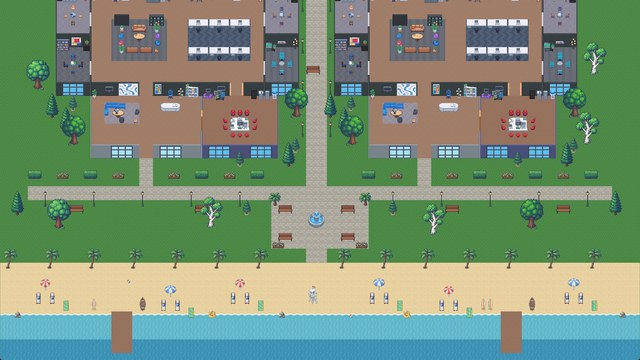
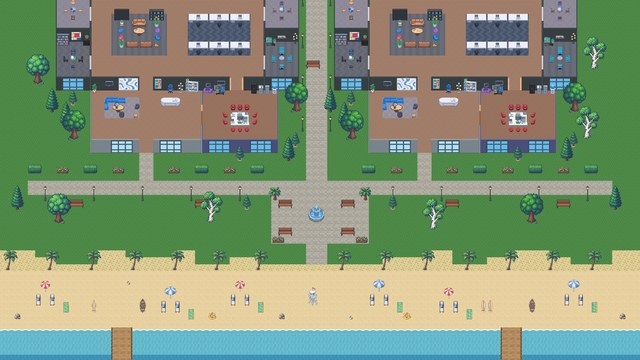
Playa de verdad: dunas irregulares, mar animado que continúa fuera del mapa, orilla con olas y muelles de tablones

diff --git a/src/sprites/floors.tsx b/src/sprites/floors.tsx
@@ -102,31 +102,72 @@ function sand(): PixelSprite {
   for (let y = 0; y < 32; y++) { let row = ''; for (let x = 0; x < 32; x++) { const n = noise(x, y, 3); row += n > .94 ? 'd' : n > .88 ? 'l' : n < .04 ? 'p' : 'b'; } rows.push(row); }
   return { w: 32, h: 32, palette: { b: '#e9d3a2', d: '#cfb37f', l: '#f6e6bf', p: '#d9a98a' }, rows };
 }
-function water(base: string, ripple: string, light: string): PixelSprite {
+/** Water, one frame of four: the ripples drift to the right and bob a pixel, so the sea moves. */
+function water(base: string, ripple: string, light: string, frame = 0): PixelSprite {
   const rows: string[] = [];
   for (let y = 0; y < 32; y++) {
     let row = '';
     for (let x = 0; x < 32; x++) {
-      const wave = (x + Math.round(Math.sin((y / 32) * Math.PI * 2) * 3) + 32) % 16;
-      const band = y % 8 === 3 && wave < 5;
-      row += band ? 'r' : y % 8 === 4 && wave >= 1 && wave < 3 ? 'l' : noise(x, y, 7) > .97 ? 'l' : 'b';
+      const bob = frame % 2;
+      const wave = (x - frame * 4 + Math.round(Math.sin(((y + frame * 2) / 32) * Math.PI * 2) * 3) + 64) % 16;
+      const band = (y + bob) % 8 === 3 && wave < 5;
+      const glint = (y + bob) % 8 === 4 && wave >= 1 && wave < 3;
+      row += band ? 'r' : glint ? 'l' : noise((x - frame * 4 + 64) % 32, y, 7) > .975 ? 'l' : 'b';
     }
     rows.push(row);
   }
   return { w: 32, h: 32, palette: { b: base, r: ripple, l: light }, rows };
 }
-/** The shore: sand above, a frothy wave line, shallow water below. */
-function shore(): PixelSprite {
+/** The shore, one frame of four: the foam line washes up the sand and back. */
+function shore(frame = 0): PixelSprite {
+  const reach = [0, 2, 4, 2][frame];
   const rows: string[] = [];
   for (let y = 0; y < 32; y++) {
     let row = '';
     for (let x = 0; x < 32; x++) {
-      const edge = 14 + Math.round(Math.sin((x / 32) * Math.PI * 2) * 2);
-      row += y < edge - 3 ? (noise(x, y, 3) > .92 ? 'd' : 's') : y < edge - 1 ? 'w' : y < edge + 1 ? (x % 5 === 0 ? 'f' : 'w') : y < edge + 3 ? 'f' : (noise(x, y, 9) > .95 ? 'l' : 'b');
+      const edge = 16 - reach + Math.round(Math.sin(((x + frame * 3) / 32) * Math.PI * 2) * 2);
+      row += y < edge - 3 ? (noise(x, y, 3) > .92 ? 'd' : y >= edge - 5 && reach < 2 ? 'm' : 's')
+        : y < edge - 1 ? 'w' : y < edge + 1 ? ((x + frame) % 5 === 0 ? 'f' : 'w') : y < edge + 3 ? 'f' : (noise(x, (y + frame) % 32, 9) > .95 ? 'l' : 'b');
     }
     rows.push(row);
   }
-  return { w: 32, h: 32, palette: { s: '#e9d3a2', d: '#d4b986', w: '#f4f1e8', f: '#bfe6ea', b: '#5fb6c9', l: '#8fd3df' }, rows };
+  return { w: 32, h: 32, palette: { s: '#e9d3a2', d: '#d4b986', m: '#d8bf8f', w: '#f4f1e8', f: '#bfe6ea', b: '#5fb6c9', l: '#8fd3df' }, rows };
+}
+/** Dunes: sand with tufts of beach grass, between the lawn and the beach. */
+function dune(): PixelSprite {
+  const rows: string[] = [];
+  const tufts = [[4, 6], [19, 3], [27, 14], [9, 20], [23, 25], [13, 11], [2, 28], [30, 22]];
+  for (let y = 0; y < 32; y++) {
+    let row = '';
+    for (let x = 0; x < 32; x++) {
+      let ch = noise(x, y, 3) > .93 ? 'd' : 's';
+      for (const [tx, ty] of tufts) { const dx = x - tx, dy = y - ty; if (dy >= -3 && dy <= 0 && Math.abs(dx) <= (dy === 0 ? 2 : dy === -1 ? 1 : 0)) ch = dy === 0 ? 'g' : 'h'; if (dy === -3 && Math.abs(dx) === 2) ch = 'h'; }
+      row += ch;
+    }
+    rows.push(row);
+  }
+  return { w: 32, h: 32, palette: { s: '#e6cd98', d: '#cfb37f', g: '#5f9a4f', h: '#7cb562' }, rows };
+}
+/** A pier tile: planks across the pier, a dark beam with round posts on the open sides and a beam at the end. */
+function pier({ left = false, right = false, end = false } = {}): PixelSprite {
+  const rows: string[] = [];
+  for (let y = 0; y < 32; y++) {
+    let row = '';
+    for (let x = 0; x < 32; x++) {
+      const outer = (left && x < 4) || (right && x > 27) || (end && y > 27);
+      const post = ((left && x < 6) || (right && x > 25)) && (y % 16 >= 5 && y % 16 <= 10) || (end && y > 25 && x % 16 >= 5 && x % 16 <= 10);
+      const postTop = post && (((left || right) && (y % 16 === 5 || y % 16 === 6)) || (end && (y === 26 || y === 27)));
+      if (post) row += postTop ? 'q' : 'p';
+      else if (outer) row += (left && x === 3) || (right && x === 28) || (end && y === 28) ? 'e' : 'k';
+      else {
+        const gap = y % 6 === 5, plank = Math.floor(y / 6);
+        const nail = !gap && (y % 6 === 2) && (x === 6 + (plank % 2) * 2 || x === 25 - (plank % 2) * 2);
+        row += gap ? 'g' : nail ? 'n' : noise(Math.floor(x / 11) + plank * 3, plank, 4) > .5 ? 'b' : 'c';
+      }
+    }
+    rows.push(row);
+  }
+  return { w: 32, h: 32, palette: { b: '#c39a6b', c: '#b38a5d', g: '#6e5038', n: '#7b5c43', k: '#5a3f2c', e: '#3f2b1f', p: '#6b4a33', q: '#9a7350' }, rows };
 }
 function cobbles(): PixelSprite {
   const rows: string[] = [];
@@ -156,6 +197,13 @@ export const ORIGINAL_FLOOR_TILES: Record<string, PixelSprite> = {
   'Shore/Foam': shore(),
   'Water/Shallow': water('#5fb6c9', '#8fd3df', '#c3ecf2'),
   'Water/Deep': water('#3a8fb3', '#5aa9c8', '#8fd3df'),
+  'Dune/Beige': dune(),
+  'Pier/Center': pier(),
+  'Pier/Left': pier({ left: true }),
+  'Pier/Right': pier({ right: true }),
+  'Pier/EndCenter': pier({ end: true }),
+  'Pier/EndLeft': pier({ left: true, end: true }),
+  'Pier/EndRight': pier({ right: true, end: true }),
   'StonePath/Grey': cobbles(),
 };
 export const FLOOR_TILES: Record<string, PixelSprite> = { ...ORIGINAL_FLOOR_TILES, ...REFERENCE_FLOORS };
@@ -163,10 +211,27 @@ export const floorKey = (texture: string, color: string) => `${texture}/${color}
 export const floorPatternId = (key: string) => `floor-${key.replace(/[^a-z0-9]/gi, '-').toLowerCase()}`;
 
 /** SVG pattern definitions for every floor tile. */
+/** Floors that move: the sea and the shore cycle through four frames. */
+const FRAMES = [0, 1, 2, 3];
+const ANIMATED_FLOORS: Record<string, { frames: PixelSprite[]; duration: number }> = {
+  'Water/Shallow': { frames: FRAMES.map(f => water('#5fb6c9', '#8fd3df', '#c3ecf2', f)), duration: 1.6 },
+  'Water/Deep': { frames: FRAMES.map(f => water('#3a8fb3', '#5aa9c8', '#8fd3df', f)), duration: 2.2 },
+  'Shore/Foam': { frames: FRAMES.map(f => shore(f)), duration: 2.4 },
+};
+const reducedMotion = () => { try { return matchMedia('(prefers-reduced-motion: reduce)').matches; } catch { return false; } };
+function SpriteGroup({ sprite }: { sprite: PixelSprite }) { return <>{spritePaths(sprite).map(path => <path key={path.color} d={path.d} fill={path.color} />)}</>; }
+
 export function FloorPatterns() {
+  const still = reducedMotion();
   return <defs>
-    {Object.entries(artPack() === 'reference' ? FLOOR_TILES : ORIGINAL_FLOOR_TILES).map(([key, sprite]) => <pattern key={key} id={floorPatternId(key)} width="32" height="32" patternUnits="userSpaceOnUse">
-      {spritePaths(sprite).map(path => <path key={path.color} d={path.d} fill={path.color} />)}
-    </pattern>)}
+    {Object.entries(artPack() === 'reference' ? FLOOR_TILES : ORIGINAL_FLOOR_TILES).map(([key, sprite]) => {
+      const animated = !still && ANIMATED_FLOORS[key];
+      return <pattern key={key} id={floorPatternId(key)} width="32" height="32" patternUnits="userSpaceOnUse">
+        {animated ? animated.frames.map((frame, index) => <g key={index} opacity={index === 0 ? 1 : 0}>
+          <SpriteGroup sprite={frame} />
+          <animate attributeName="opacity" dur={`${animated.duration}s`} repeatCount="indefinite" calcMode="discrete" values={FRAMES.map(f => (f === index ? 1 : 0)).join(';')} />
+        </g>) : <SpriteGroup sprite={sprite} />}
+      </pattern>;
+    })}
   </defs>;
 }

diff --git a/shared/maps/index.js b/shared/maps/index.js
@@ -6,12 +6,34 @@ import { composeMap } from './compose.js';
 
 const ground = (name, floor, floorColor, x, y, w, h, extra = {}) => ({ name, floor, floorColor, x, y, w, h, ...extra });
 const path = (x, y, w, h) => ground('Camino', 'StonePath', 'Grey', x, y, w, h);
-/** Sand, a frothy shore line, shallow and deep water from row `top` down to the bottom of the map. */
-const beach = (cols, top, rows) => [
-  ground('Playa', 'Sand', 'Beige', 0, top, cols, rows - top - 7),
-  ground('Orilla', 'Shore', 'Foam', 0, rows - 7, cols, 1, { blocked: true }),
-  ground('Mar', 'Water', 'Shallow', 0, rows - 6, cols, 3, { blocked: true }),
-  ground('Mar abierto', 'Water', 'Deep', 0, rows - 3, cols, 3, { blocked: true }),
+/** A beach from row `top` to the bottom of the map: an uneven line of dunes biting into the lawn (skipping the `gaps`,
+    where paths come down), wide sand, a frothy shore and the sea getting deeper. The sea continues past the map edge. */
+const beach = (cols, top, rows, gaps = []) => {
+  const shoreRow = rows - 10, bumps = [];
+  // Dune bumps of varying width and height: a natural coastline instead of a ruler-straight edge.
+  const widths = [5, 3, 6, 4, 7, 3, 5, 4], heights = [2, 1, 0, 2, 1, 2, 0, 1];
+  for (let x = 0, i = 0; x < cols; i++) {
+    const w = Math.min(widths[i % widths.length], cols - x), h = heights[i % heights.length];
+    if (h && !gaps.some(([from, to]) => x < to && x + w > from)) bumps.push(ground('Dunas', 'Dune', 'Beige', x, top - h, w, h));
+    x += w;
+  }
+  return [
+    ...bumps,
+    ground('Dunas', 'Dune', 'Beige', 0, top, cols, 1),
+    ground('Playa', 'Sand', 'Beige', 0, top + 1, cols, shoreRow - top - 1),
+    ground('Orilla', 'Shore', 'Foam', 0, shoreRow, cols, 1, { blocked: true }),
+    ground('Mar', 'Water', 'Shallow', 0, shoreRow + 1, cols, 3, { blocked: true }),
+    ground('Mar abierto', 'Water', 'Deep', 0, shoreRow + 4, cols, rows - shoreRow - 4, { blocked: true }),
+  ];
+};
+/** A pier three tiles wide from the shore out to sea: planks, beams with posts on both sides and a beam at the end. */
+const pier = (x, top, length) => [
+  ground('Muelle', 'Pier', 'Left', x, top, 1, length - 1, { depth: 3 }),
+  ground('Muelle', 'Pier', 'Center', x + 1, top, 1, length - 1, { depth: 3 }),
+  ground('Muelle', 'Pier', 'Right', x + 2, top, 1, length - 1, { depth: 3 }),
+  ground('Muelle', 'Pier', 'EndLeft', x, top + length - 1, 1, 1, { depth: 3 }),
+  ground('Muelle', 'Pier', 'EndCenter', x + 1, top + length - 1, 1, 1, { depth: 3 }),
+  ground('Muelle', 'Pier', 'EndRight', x + 2, top + length - 1, 1, 1, { depth: 3 }),
 ];
 const every = (from, to, step, make) => { const out = []; for (let v = from; v <= to; v += step) out.push(...make(v)); return out; };
 /** An umbrella with two loungers and a towel beside it, standing on the tile (x, y). */
@@ -19,7 +41,7 @@ const sunSpot = (x, y, color) => [['beach-umbrella', color, x, y], ['sun-lounger
 
 // ---------------------------------------------------------------------------------------------------------------
 // Studio: the lobby, the team hall and the media room by the sea, with a garden walk down to the beach.
-const STUDIO_COLS = 40, STUDIO_ROWS = 52, SAND = 38;
+const STUDIO_COLS = 40, STUDIO_ROWS = 58, SAND = 39;
 const studio = composeMap(vivo, {
   cols: STUDIO_COLS, rows: STUDIO_ROWS, spawn: { tx: 10, ty: 27 },
   stamps: [
@@ -32,9 +54,9 @@ const studio = composeMap(vivo, {
     path(32, 8, 2, 26), // along the east side of the building
     path(15, 6, 2, 2), // from the hall's garden door to the pond
     ground('Plaza', 'StonePath', 'Grey', 31, 2, 8, 6),
-    path(18, 36, 3, 2), // down to the sand
-    ...beach(STUDIO_COLS, SAND, STUDIO_ROWS),
-    ground('Muelle', 'WoodSlats', 'Wood', 30, STUDIO_ROWS - 7, 3, 6, { depth: 3 }),
+    path(18, 36, 3, 3), // down to the sand
+    ...beach(STUDIO_COLS, SAND, STUDIO_ROWS, [[17, 22]]),
+    ...pier(29, STUDIO_ROWS - 10, 8),
   ],
   objects: [
     // Garden along the promenade: hedges with gaps, flower beds, benches and lamps.
@@ -58,7 +80,7 @@ const studio = composeMap(vivo, {
 
 // ---------------------------------------------------------------------------------------------------------------
 // Campus: two buildings joined by a promenade and a fountain plaza, gardens in between and a long beach.
-const CAMPUS_COLS = 92, CAMPUS_ROWS = 72, CAMPUS_SAND = 58;
+const CAMPUS_COLS = 92, CAMPUS_ROWS = 78, CAMPUS_SAND = 59;
 const campus = composeMap(vivo, {
   cols: CAMPUS_COLS, rows: CAMPUS_ROWS, spawn: { tx: 20, ty: 39 },
   stamps: [
@@ -71,10 +93,9 @@ const campus = composeMap(vivo, {
     path(44, 8, 3, 39), // the garden alley between the buildings, up to the northern walk
     path(24, 8, 44, 2), // the northern walk past both koi ponds
     ground('Plaza', 'StonePath', 'Grey', 39, 49, 14, 7),
-    path(44, 56, 3, 2), // down to the sand
-    ...beach(CAMPUS_COLS, CAMPUS_SAND, CAMPUS_ROWS),
-    ground('Muelle', 'WoodSlats', 'Wood', 72, CAMPUS_ROWS - 7, 3, 6, { depth: 3 }),
-    ground('Muelle', 'WoodSlats', 'Wood', 16, CAMPUS_ROWS - 7, 3, 6, { depth: 3 }),
+    path(44, 56, 3, 3), // down to the sand
+    ...beach(CAMPUS_COLS, CAMPUS_SAND, CAMPUS_ROWS, [[38, 54]]),
+    ...pier(72, CAMPUS_ROWS - 10, 8), ...pier(16, CAMPUS_ROWS - 10, 8),
   ],
   objects: [
     // Hedges and flower beds along the promenade, open in front of the doors, the alley and the plaza.

diff --git a/src/VivoScene.tsx b/src/VivoScene.tsx
@@ -90,8 +90,20 @@ function BaseObject({ object, selected, editing, onSelectObject, onGrab }: { obj
 }
 /** Static layers: floors in area depth order, then walls, doorways and furniture sorted with the avatars. */
 const AREA_FLOORS = [...AREAS].sort((a, b) => a.depth - b.depth);
+/** Outdoor ground touching the edge of the map (the sea, the sand) carries on beyond it, so a beach ends in open sea. */
+const OUTER_GROUND = AREA_FLOORS.filter(area => area.parent && !area.walls && area.type === 'Public' && /^(Sand|Dune|Shore|Water)$/.test(area.floor)).flatMap(area => {
+  const far = Math.max(WORLD.width, WORLD.height) * 2, x = area.x * TILE, y = area.y * TILE, w = area.w * TILE, h = area.h * TILE;
+  const left = area.x === 0, right = area.x + area.w === WORLD.cols, bottom = area.y + area.h === WORLD.rows;
+  const out: { id: string; floor: string; floorColor: string; x: number; y: number; w: number; h: number }[] = [];
+  const base = { floor: area.floor, floorColor: area.floorColor };
+  // One pixel of overlap hides the seam between the map's own ground and its continuation outside.
+  if (left) out.push({ id: `${area.id}-l`, ...base, x: x - far, y, w: far + 1, h: bottom ? h + far : h + 1 });
+  if (right) out.push({ id: `${area.id}-r`, ...base, x: x + w - 1, y, w: far + 1, h: bottom ? h + far : h + 1 });
+  if (bottom) out.push({ id: `${area.id}-b`, ...base, x, y: y + h - 1, w, h: far });
+  return out;
+});
 /** Outdoor ground keeps its colour on the minimap. */
-const MINIMAP_GROUND: Record<string, string> = { Sand: '#cdb88a', Shore: '#9fd0d8', Water: '#3f8fb0', StonePath: '#8f8b82' };
+const MINIMAP_GROUND: Record<string, string> = { Sand: '#cdb88a', Dune: '#bfae7d', Pier: '#8a6a4a', Shore: '#9fd0d8', Water: '#3f8fb0', StonePath: '#8f8b82' };
 /** Tall north walls are drawn over the tiles behind them; a click on one means the floor right in front of it. */
 const NORTH_WALLS = WALLS.filter(wall => !wall.open && (wall.side === 'n' || wall.side === 'nw' || wall.side === 'ne'));
 function inFrontOfWall(point: Point): Tile | null {
@@ -568,7 +580,10 @@ export default function VivoScene({ participants, selfId, objects, zoom, simplif
       <defs><pattern id="edit-grid" width={TILE} height={TILE} patternUnits="userSpaceOnUse"><path d={`M${TILE} 0V${TILE}H0`} fill="none" stroke="#ffffff" strokeOpacity=".12" strokeWidth="1" /></pattern></defs>
       <g pointerEvents="none" shapeRendering="crispEdges">
         <rect x={-WORLD.width} y={-WORLD.height} width={WORLD.width * 3} height={WORLD.height * 3} fill={`url(#${floorPatternId('NewStyleGrass/Green')})`} />
-        {AREA_FLOORS.map(area => <rect key={area.id} x={area.x * TILE} y={area.y * TILE} width={area.w * TILE} height={area.h * TILE} fill={`url(#${floorPatternId(floorKey(area.floor, area.floorColor))})`} />)}
+        {OUTER_GROUND.map(area => <rect key={`outer-${area.id}`} x={area.x} y={area.y} width={area.w} height={area.h} fill={`url(#${floorPatternId(floorKey(area.floor, area.floorColor))})`} />)}
+        {AREA_FLOORS.map(area => <rect key={area.id} x={area.x * TILE} y={area.y * TILE} width={area.w * TILE + (area.id.startsWith('ground-') ? 1 : 0)} height={area.h * TILE + (area.id.startsWith('ground-') ? 1 : 0)} fill={`url(#${floorPatternId(floorKey(area.floor, area.floorColor))})`} />)}
+        {/* The shore pattern starts with sand: a sand edge hides the wrap-around line browsers draw when scaling the pattern. */}
+        {[...AREA_FLOORS, ...OUTER_GROUND].filter(area => area.floor === 'Shore').map(area => { const outer = !('depth' in area); return <rect key={`shore-edge-${area.id}`} x={outer ? area.x : area.x * TILE} y={outer ? area.y : area.y * TILE} width={outer ? area.w : area.w * TILE + 1} height={2} fill="#e9d3a2" />; })}
       </g>
       {editingMode && <g pointerEvents="none"><rect x={-WORLD.width} y={-WORLD.height} width={WORLD.width * 3} height={WORLD.height * 3} fill="#0b1020" fillOpacity=".28" /><rect x="0" y="0" width={WORLD.width} height={WORLD.height} fill="url(#edit-grid)" /></g>}
       {destination && <g pointerEvents="none" transform={`translate(${destination.tx * TILE} ${destination.ty * TILE})`}><rect x="2" y="2" width="28" height="28" rx="3" fill="none" stroke="#ffffff" strokeOpacity=".9" strokeWidth="2" /></g>}

diff --git a/src/footsteps.ts b/src/footsteps.ts
@@ -9,7 +9,7 @@ export function floorMaterial(point: { x: number; y: number }): Material {
   const tx = Math.floor(point.x / TILE), ty = Math.floor(point.y / TILE);
   const area = BY_DEPTH.find(candidate => tx >= candidate.x && tx < candidate.x + candidate.w && ty >= candidate.y && ty < candidate.y + candidate.h);
   const floor = area?.floor ?? 'NewStyleGrass';
-  return floor.startsWith('Carpet') ? 'carpet' : floor.includes('Grass') ? 'grass' : floor === 'Sand' ? 'sand' : floor === 'StonePath' ? 'stone' : 'wood';
+  return floor.startsWith('Carpet') ? 'carpet' : floor.includes('Grass') ? 'grass' : floor === 'Sand' || floor === 'Dune' ? 'sand' : floor === 'StonePath' ? 'stone' : 'wood';
 }
 
 /** Sound effects volume, 0 to 1 (0 silences them). */
